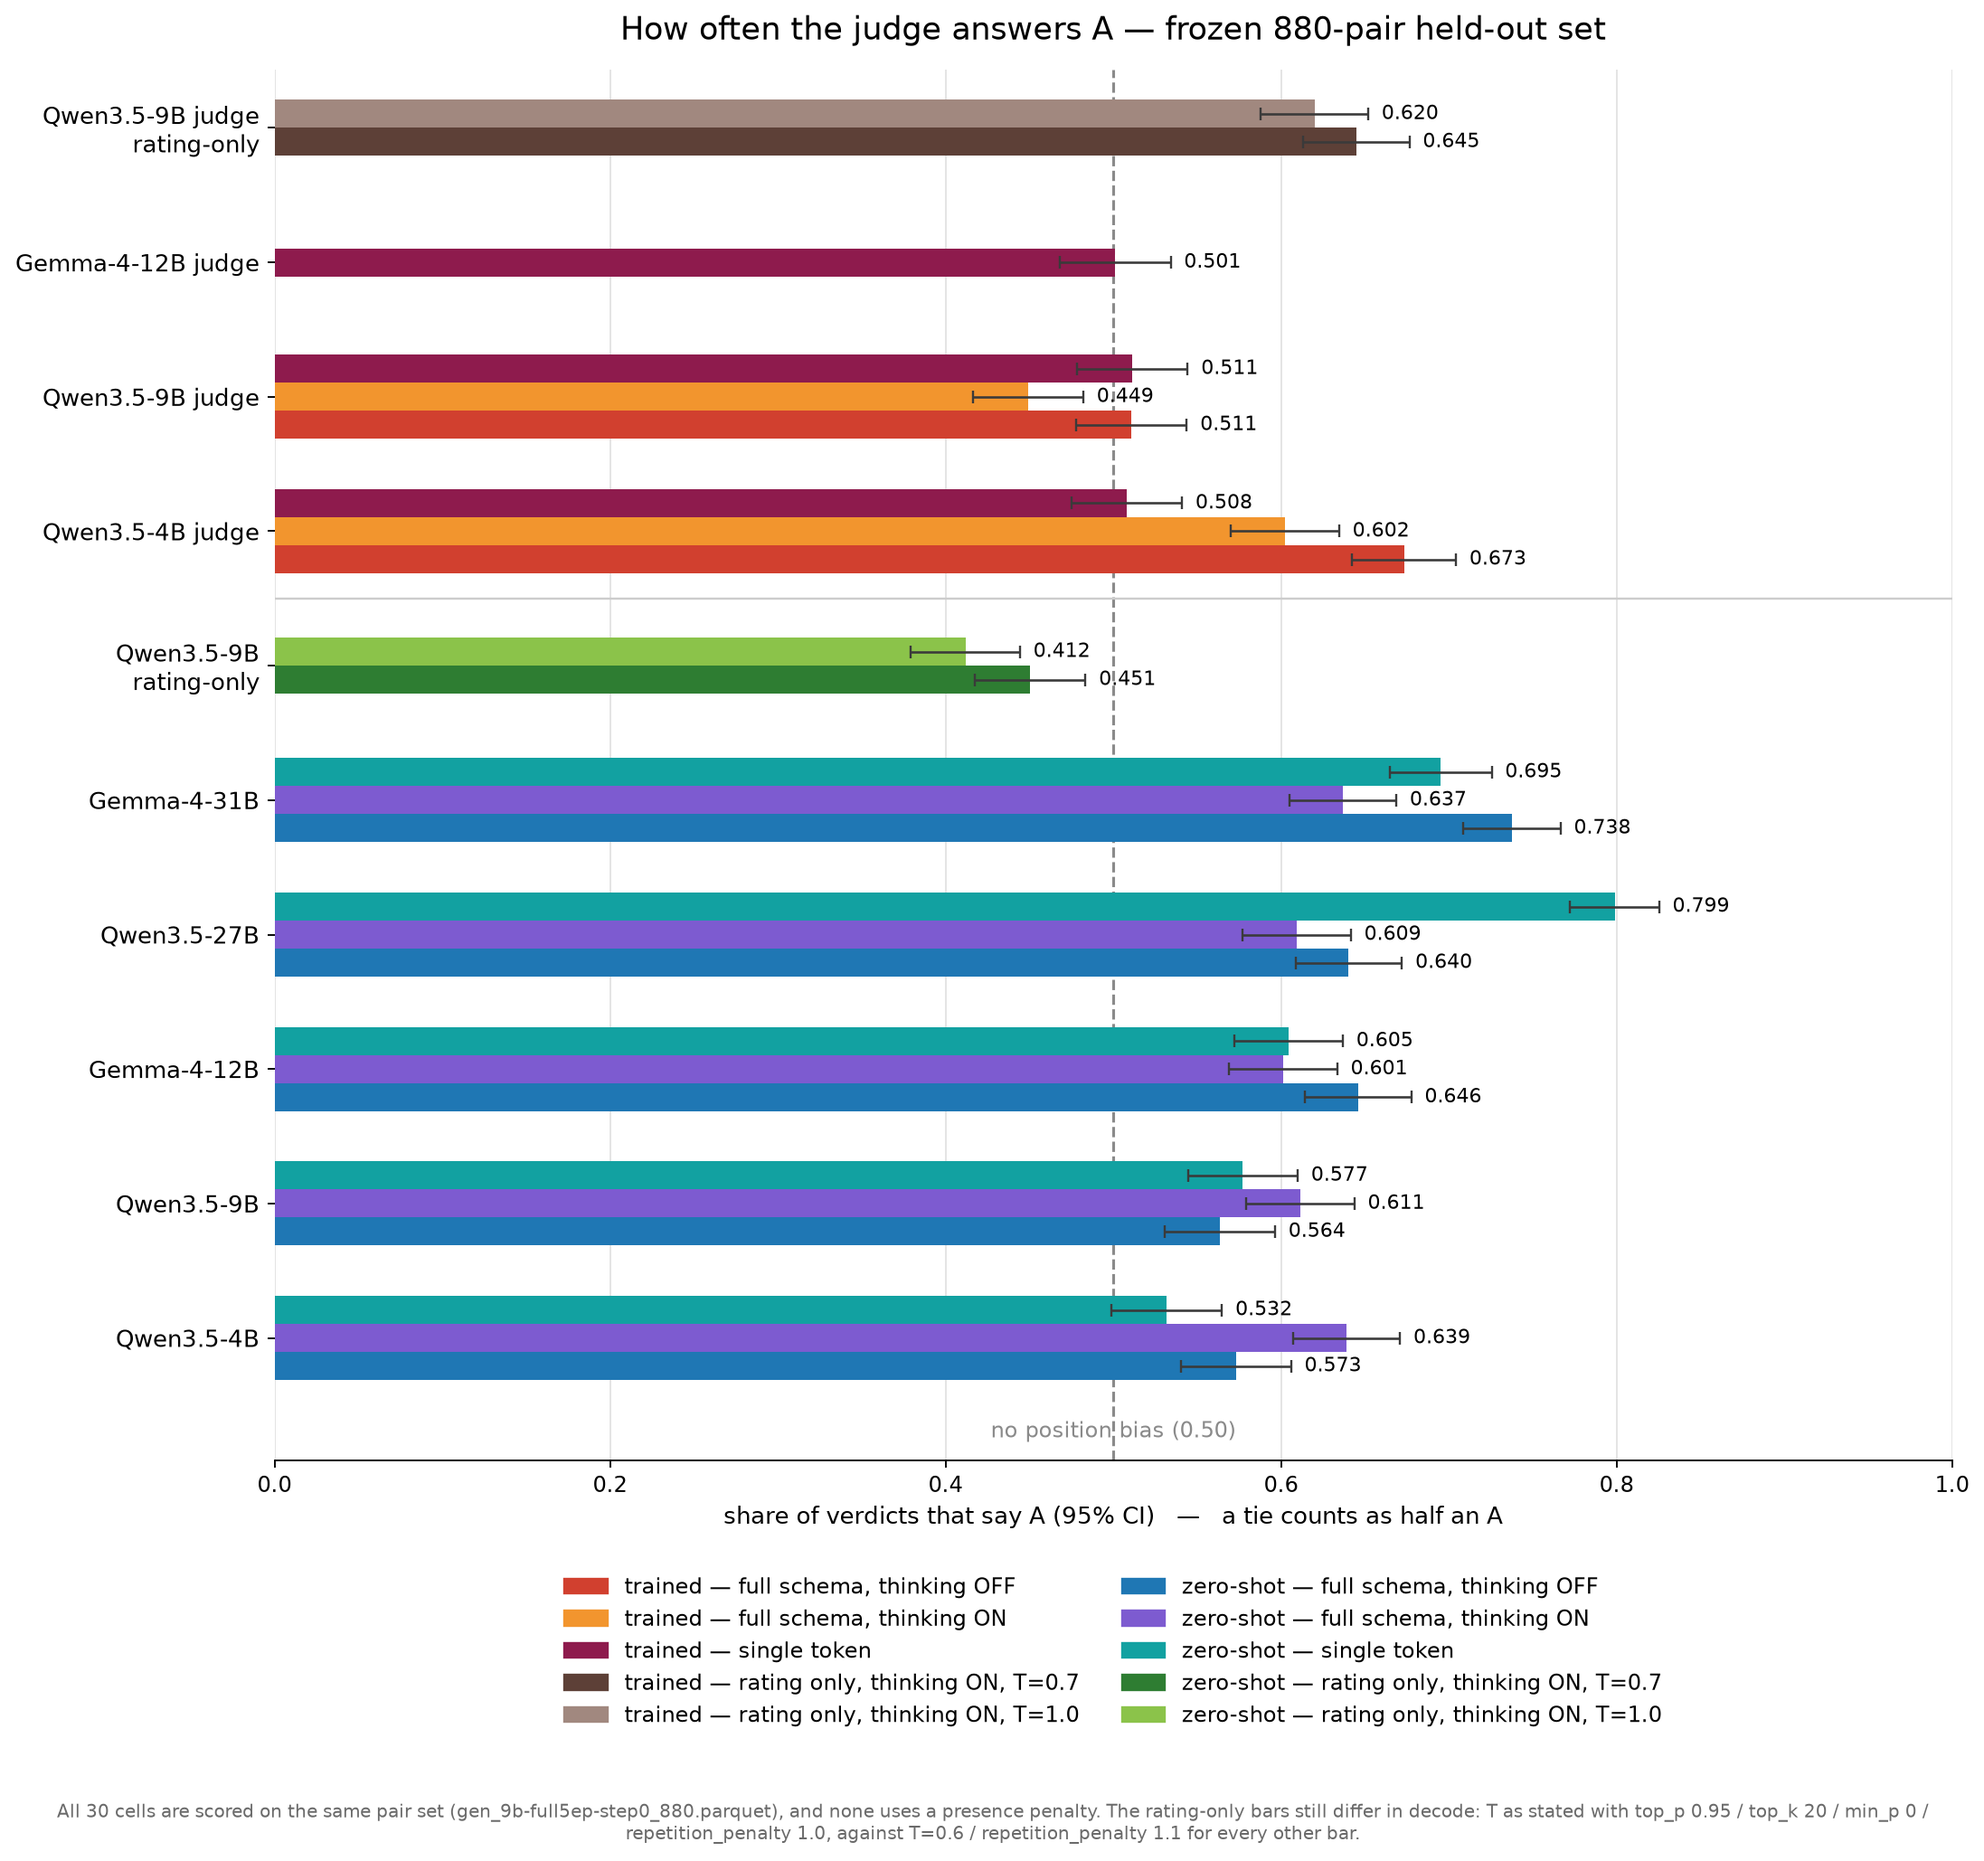
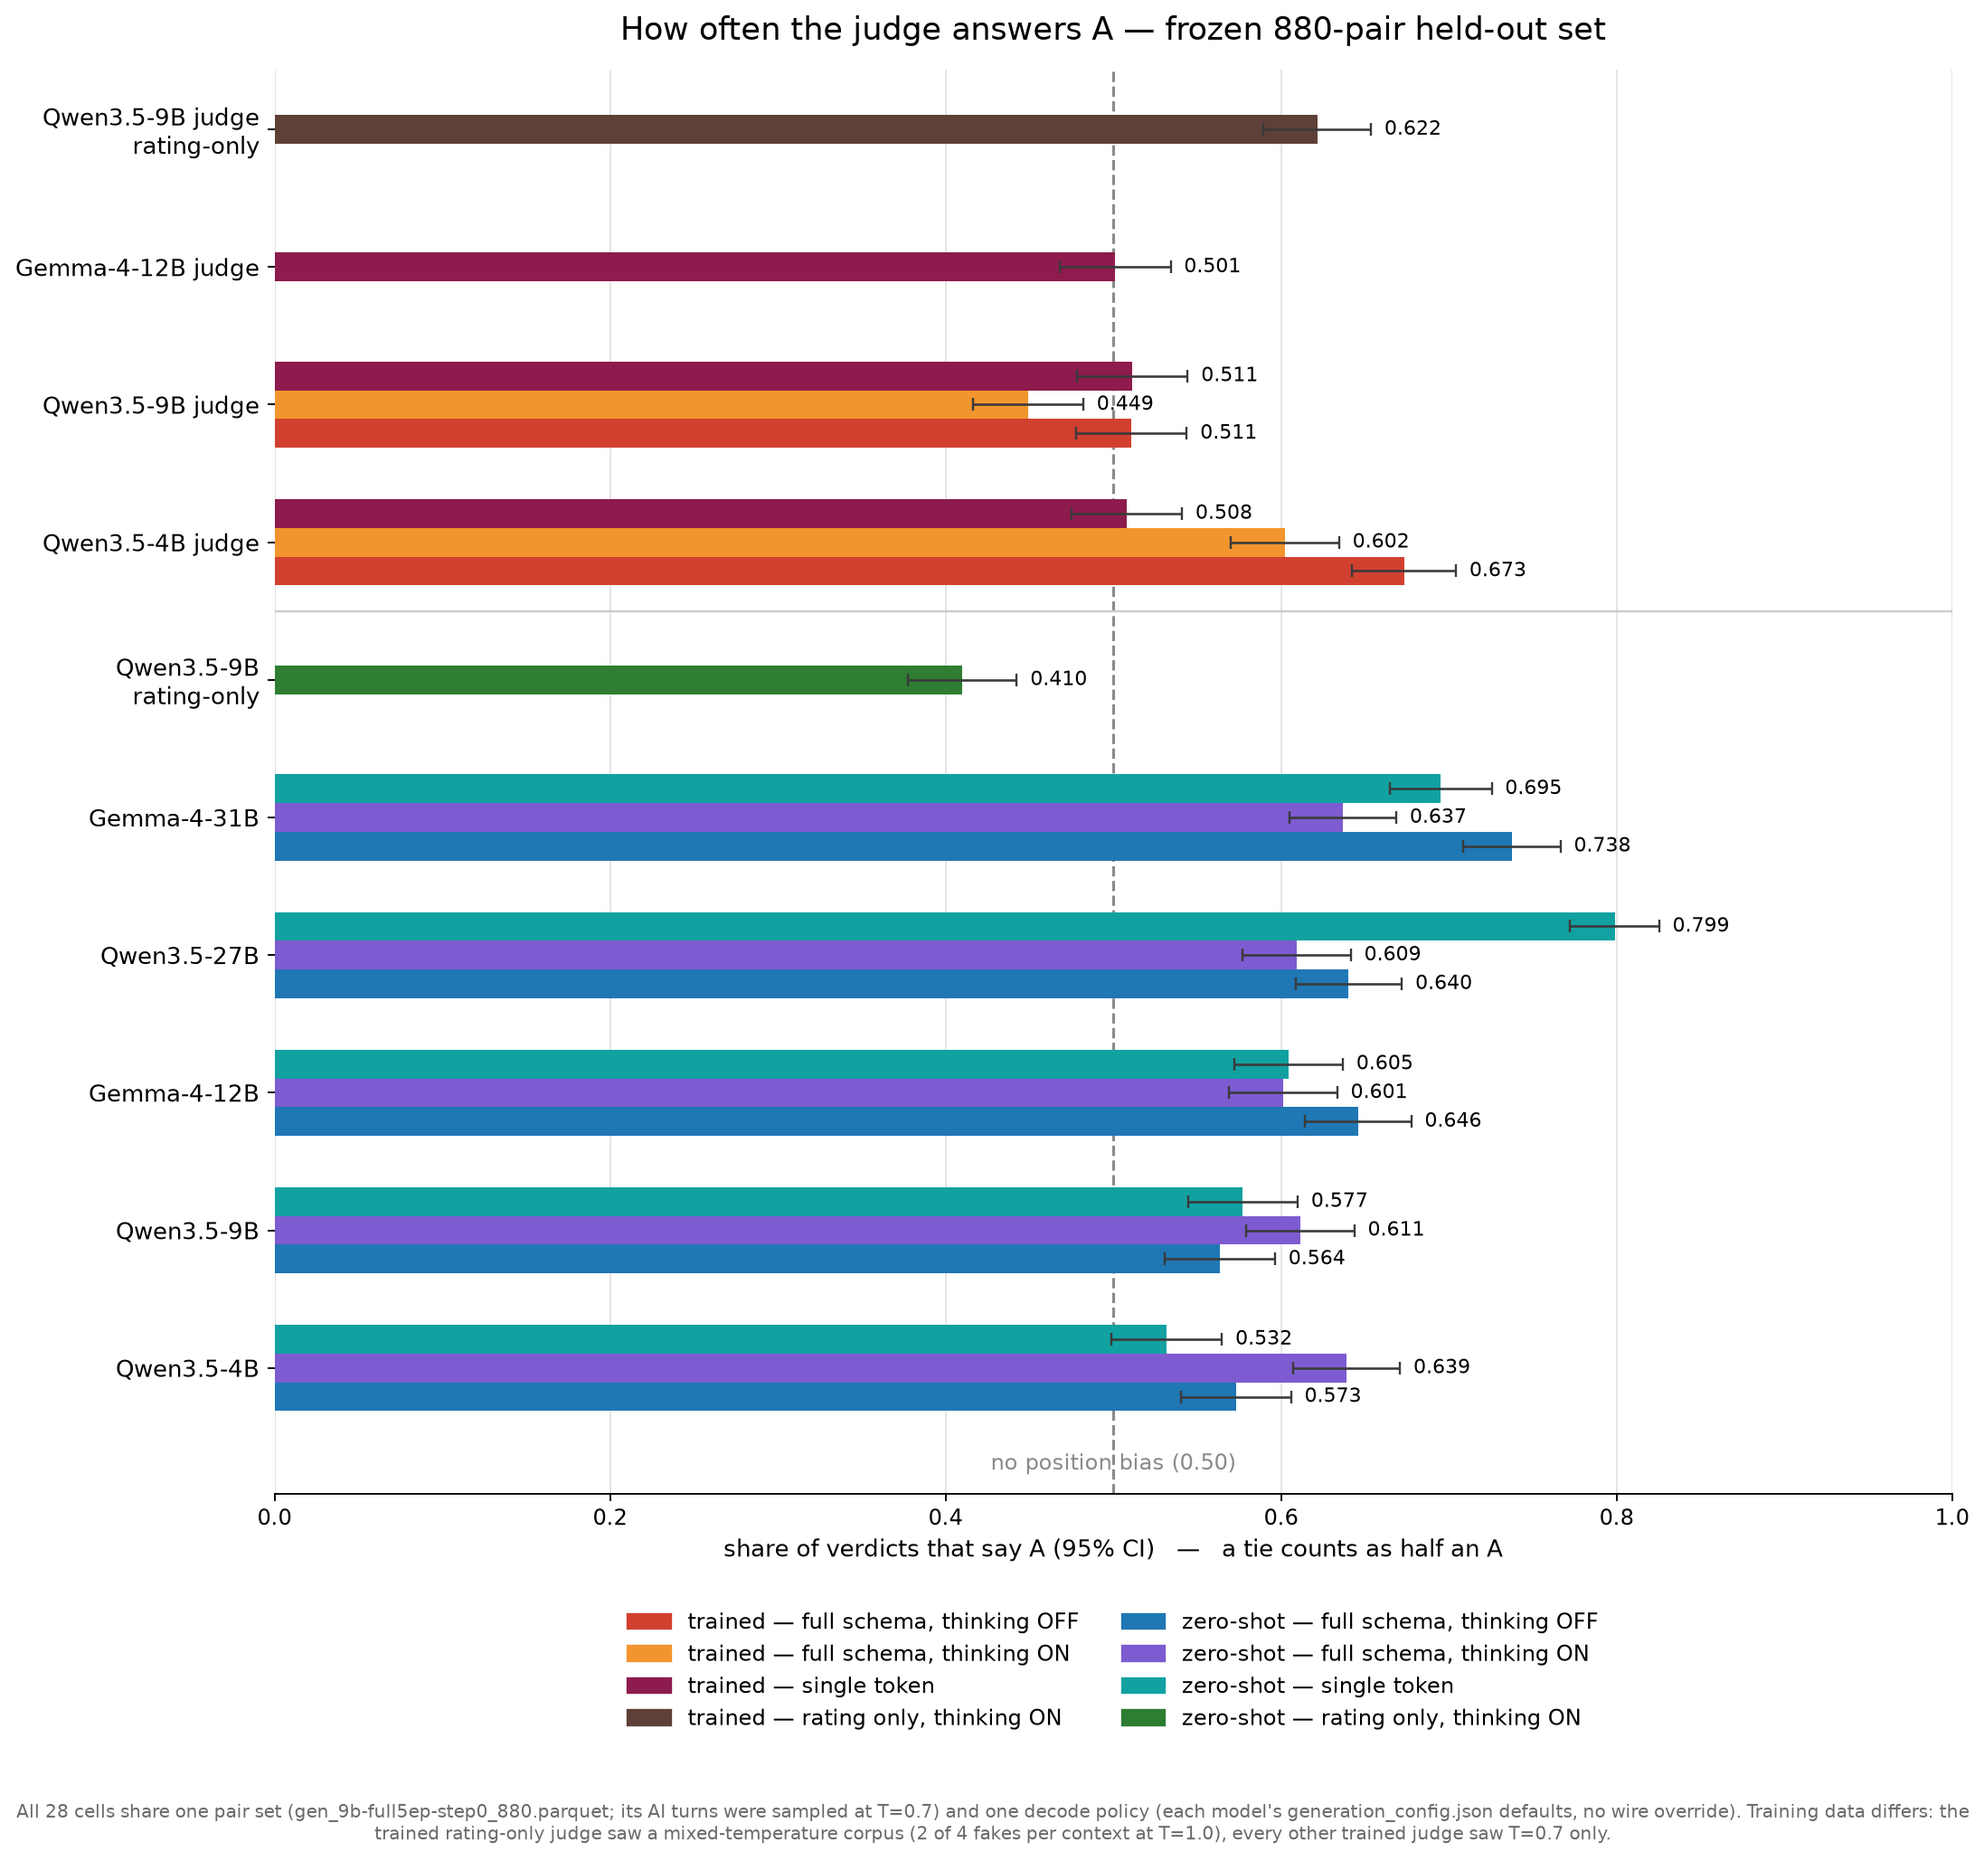
results: rebuild the 880 chart from the matched-decode cells
Jobs 23646/23647 rescored the two rating_only cells with no JUDGE_SAMPLING at all, which is
what the other 26 cells record (sampling = "generation_config_defaults (no wire override)").
The figure now has 28 bars sharing one pair set AND one decode policy, so the prompt is the
only judge-side variable on it. Trained 0.603, zero-shot 0.518.

This replaces four bars with two: with no temperature override there is no T=0.7 vs T=1.0
split to draw. The three earlier runs of these cells are kept as CSVs -- presence_penalty 1.5
(23585-23588), presence_penalty 0 (23603-23606), and the discarded wrong-pair-set attempt
(23558-23561) -- so every decode variant remains on disk.

The decode footnote is gone, since decode is no longer a difference. It is replaced by the
one difference that remains and is NOT visible in the cells: the trained rating_only judge was
trained on a mixed-temperature corpus (2 of 4 fakes per context at T=1.0) while every other
trained judge saw T=0.7 only, and the eval set's own AI turns are T=0.7. That is recorded from
the source rather than inferred -- gen_metadata.json for the 880 pairs (slurm job 13940) says
"--temperature 0.7 --top_p 0.8 --top_k 20", gen_num 1. Half of J1's training signal therefore
came from a distribution absent from both the held-out val and the 880 set, which is a
confound with the prompt change and cannot be separated from this figure.

README returns to provenance only and now records the pair set's generation parameters, which
[…]

diff --git a/results/2026-09-16-rating-judge-880/make_plot.py b/results/2026-09-16-rating-judge-880/make_plot.py
@@ -1,20 +1,17 @@
 """Judge plots on the frozen 880-pair held-out set, from comparison.csv.
 
 Copied from results/2026-09-01-gemma-single-token-judge/make_plot.py and extended with the
-rating_only thinking-ON judge (J1', GRPO step 52) and its zero-shot control, each at two
-decode temperatures.
+rating_only thinking-ON judge (J1', GRPO step 52) and its zero-shot control.
 
-Two structural changes against the original:
+One structural change against the original: GROUPS maps a series key to a cell name, so a
+group can carry any number of bars. The original hard-coded three (thinking OFF / ON / single
+token) and centred them with a fixed ``offset - 1``; the rating groups have one, so the offset
+is computed from how many bars a group actually has.
 
-* GROUPS now maps a series key to a cell name, so a group can carry any number of bars. The
-  original hard-coded three (thinking OFF / ON / single token) and centred them with a fixed
-  ``offset - 1``; the rating groups have two, so the offset is computed from how many bars a
-  group actually has.
-* The four rating bars were scored under a DIFFERENT DECODE POLICY from every other bar --
-  the Qwen3.5 thinking-mode recommendation (top_p 0.95, top_k 20, min_p 0, presence_penalty
-  1.5, repetition_penalty 1.0) at T in {0.7, 1.0}, whereas the historical cells used T=0.6
-  with repetition_penalty 1.1 and no other wire override. They are therefore NOT decode-
-  comparable with the bars above them, which the footnote states on the figure itself.
+All 28 cells share one pair set and one decode policy (each model's generation_config.json
+defaults, no wire override), so the prompt is the only judge-side variable on the figure.
+Earlier runs of these two cells at other decode settings are kept in the sibling CSVs; see
+README.txt.
 
 Error bars are a normal approximation, 1.96*sqrt(p(1-p)/n); with the half-tie rule the
 outcome is not strictly Bernoulli, so read them as indicative.
@@ -46,12 +43,11 @@ SERIES_SPEC = {
     "off": ("full", "off"),
     "on": ("full", "on"),
     "st": ("single_token", "off"),
-    "r07": ("rating_only", "on"),
-    "r10": ("rating_only", "on"),
+    "r": ("rating_only", "on"),
 }
 # Draw order within a group, bottom to top.
 FULL_SET = ["off", "on", "st"]
-RATING_SET = ["r07", "r10"]
+RATING_SET = ["r"]
 
 # Bottom-to-top: zero-shot by model size, then the trained judges.
 # (row label, {series key: cell name}, arm, draw order)
@@ -61,47 +57,44 @@ GROUPS = [
     ("Gemma-4-12B", {"off": "gemma4-12b", "on": "gemma4-12b", "st": "gemma4-12b-st"}, "zero", FULL_SET),
     ("Qwen3.5-27B", {"off": "qwen35-27b", "on": "qwen35-27b", "st": "qwen35-27b-st"}, "zero", FULL_SET),
     ("Gemma-4-31B", {"off": "gemma4-31b", "on": "gemma4-31b", "st": "gemma4-31b-st"}, "zero", FULL_SET),
-    ("Qwen3.5-9B\nrating-only", {"r07": "judge-9b-rating-zeroshot-t07",
-                                 "r10": "judge-9b-rating-zeroshot-t10"}, "zero", RATING_SET),
+    ("Qwen3.5-9B\nrating-only", {"r": "judge-9b-rating-zeroshot"}, "zero", RATING_SET),
     ("Qwen3.5-4B judge", {"off": "judge-4b-graded-step52", "on": "judge-4b-graded-step52",
                           "st": "judge-4b-ce-st"}, "trained", FULL_SET),
     ("Qwen3.5-9B judge", {"off": "judge-9b-graded-step52", "on": "judge-9b-graded-step52",
                           "st": "judge-9b-ce-st"}, "trained", FULL_SET),
     # Single-token only: there is no trained full-schema Gemma judge.
     ("Gemma-4-12B judge", {"st": "judge-gemma12b-ce-st"}, "trained", ["st"]),
-    ("Qwen3.5-9B judge\nrating-only", {"r07": "judge-9b-rating-trained-t07",
-                                       "r10": "judge-9b-rating-trained-t10"}, "trained", RATING_SET),
+    ("Qwen3.5-9B judge\nrating-only", {"r": "judge-9b-rating-trained"}, "trained", RATING_SET),
 ]
 
-# Warm = trained, cold = zero-shot. Rating-only gets its own hues so the different decode
-# policy is visible at a glance rather than blending into the full-schema series.
+# Warm = trained, cold = zero-shot. Rating-only keeps its own hue so the newest protocol is
+# distinguishable from the three it is being compared against.
 COLOURS = {
     ("zero", "off"): "#1f77b4", ("zero", "on"): "#7d5bd0", ("zero", "st"): "#12a1a1",
-    ("zero", "r07"): "#2e7d32", ("zero", "r10"): "#8bc34a",
+    ("zero", "r"): "#2e7d32",
     ("trained", "off"): "#d1402f", ("trained", "on"): "#f2952e", ("trained", "st"): "#8e1b4d",
-    ("trained", "r07"): "#5d4037", ("trained", "r10"): "#a1887f",
+    ("trained", "r"): "#5d4037",
 }
 LEGEND = [
     ("trained", "off", "trained — full schema, thinking OFF"),
     ("trained", "on",  "trained — full schema, thinking ON"),
     ("trained", "st",  "trained — single token"),
-    ("trained", "r07", "trained — rating only, thinking ON, T=0.7"),
-    ("trained", "r10", "trained — rating only, thinking ON, T=1.0"),
+    ("trained", "r",   "trained — rating only, thinking ON"),
     ("zero", "off", "zero-shot — full schema, thinking OFF"),
     ("zero", "on",  "zero-shot — full schema, thinking ON"),
     ("zero", "st",  "zero-shot — single token"),
-    ("zero", "r07", "zero-shot — rating only, thinking ON, T=0.7"),
-    ("zero", "r10", "zero-shot — rating only, thinking ON, T=1.0"),
+    ("zero", "r",   "zero-shot — rating only, thinking ON"),
 ]
 
 # Between the last zero-shot group and the first trained one.
 DIVIDER_AFTER = 5
 
 FOOTNOTE = (
-    "All 30 cells are scored on the same pair set (gen_9b-full5ep-step0_880.parquet), and none "
-    "uses a presence penalty. The rating-only bars still differ in decode: T as stated with "
-    "top_p 0.95 / top_k 20 / min_p 0 / repetition_penalty 1.0, against T=0.6 / "
-    "repetition_penalty 1.1 for every other bar."
+    "All 28 cells share one pair set (gen_9b-full5ep-step0_880.parquet; its AI turns were "
+    "sampled at T=0.7) and one decode policy (each model's generation_config.json defaults, no "
+    "wire override). Training data differs: the trained rating-only judge saw a mixed-"
+    "temperature corpus (2 of 4 fakes per context at T=1.0), every other trained judge saw "
+    "T=0.7 only."
 )
 
 FIGURES = [
